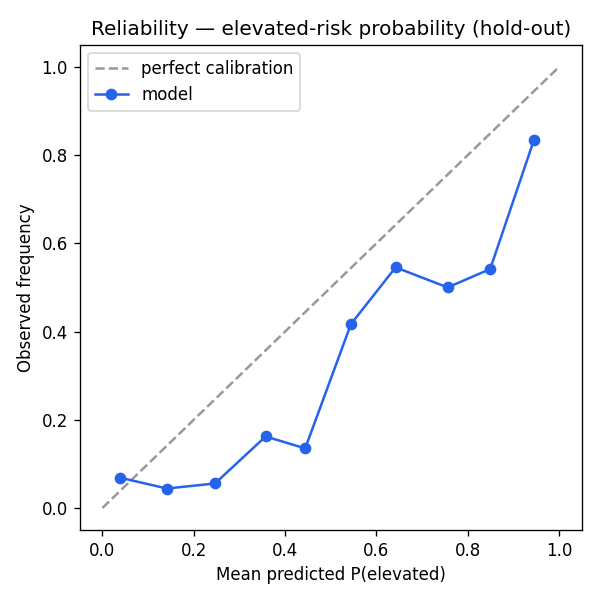
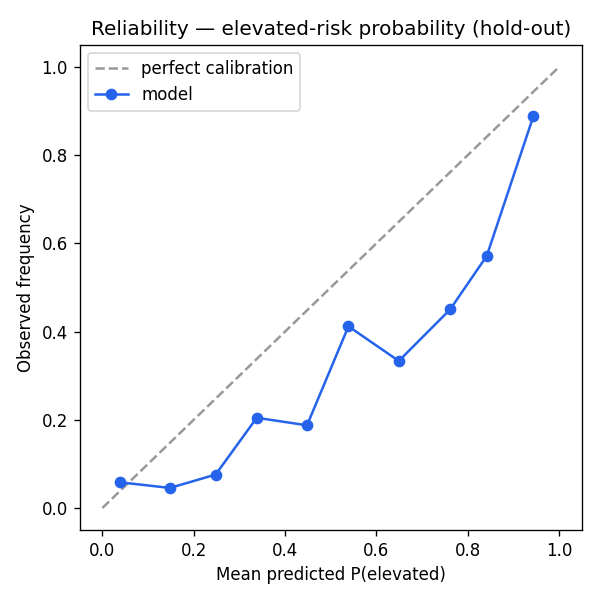
fix(ml): quant-review fixes — purged walk-forward, Brier, honest template wording
Adversarial quant review (1 medium + 4 low; persistence semantics and
cross-fold usage VERIFIED correct — minimal non-leaking lag, deployment-
realistic baseline):

- MEDIUM: folds and the calibration/hold-out fits lacked a purge/embargo —
  the last horizon=10 training rows carry labels computed from returns
  INSIDE the test window. Both validation.py and train.evaluate now drop
  those rows (purged walk-forward); majority baseline counts on the same
  embargoed window. Regenerated real report: model mean fold acc
  0.4923 → 0.4896 (the leak was flattering it), persistence unchanged at
  0.5230. Robust-fit fallback added: HistGBM's STRATIFIED early-stopping
  split raises on <2 members of a class in early embargoed windows →
  refit that window with early_stopping=False (logged, deterministic).
- Calibration payload/report gain the hold-out Brier score vs the
  base-rate reference (0.1042 vs 0.1133 — real, modest probabilistic
  skill) + an overlapping-window effective-n caveat.
- Honest template wording for the persistence criterion; per-fold
  persistence coverage + partial-coverage footnote; pooled→fold_means.
- Tests: +3 (embargo gap, log-loss masking, last-bin p=1.0), dead loop
  removed. Model card synced to embargoed numbers.

backend 632; black/ruff clean.

diff --git a/backend/app/ml/validation.py b/backend/app/ml/validation.py
@@ -32,7 +32,7 @@ from sklearn.pipeline import Pipeline
 from sklearn.preprocessing import StandardScaler
 
 from .config import TrainConfig
-from .train import _feature_importances, _make_model
+from .train import _feature_importances, _fit, _make_model
 
 _log = logging.getLogger(__name__)
 
@@ -106,13 +106,17 @@ def walk_forward_report(
     persist_all = persistence_predictions(y, horizon)
 
     folds: list[dict[str, Any]] = []
-    pooled: dict[str, list] = {"model": [], "majority": [], "persistence": [], "logistic": []}
+    fold_means: dict[str, list] = {"model": [], "majority": [], "persistence": [], "logistic": []}
     tscv = TimeSeriesSplit(n_splits=c.cv_splits)
     for i, (tr, te) in enumerate(tscv.split(X), start=1):
+        # PURGE/EMBARGO: the last `horizon` training rows carry labels computed
+        # from returns INSIDE the test window (y(t) spans (t, t+h]) — training
+        # on them leaks test-period information. Drop them from every fold.
+        tr = tr[:-horizon] if len(tr) > horizon else tr
         X_tr, y_tr = X.iloc[tr], y.iloc[tr]
         X_te, y_te = X.iloc[te], y.iloc[te]
 
-        model = _make_model(c).fit(X_tr, y_tr)
+        model = _fit(c, X_tr, y_tr)
         pred = model.predict(X_te)
         proba = model.predict_proba(X_te)
         loss, loss_skipped = _safe_log_loss(y_te, proba, list(model.classes_))
@@ -143,18 +147,19 @@ def walk_forward_report(
                 "log_loss_skipped_rows": loss_skipped,
                 "baseline_majority_acc": _acc(y_te, maj_pred),
                 "baseline_persistence_acc": persist_acc,
+                "persistence_rows": int(persist_mask.sum()),
                 "baseline_logistic_acc": _acc(y_te, logit_pred),
                 "baseline_logistic_log_loss": logit_loss,
             }
         )
-        pooled["model"].append(folds[-1]["accuracy"])
-        pooled["majority"].append(folds[-1]["baseline_majority_acc"])
+        fold_means["model"].append(folds[-1]["accuracy"])
+        fold_means["majority"].append(folds[-1]["baseline_majority_acc"])
         if persist_acc is not None:
-            pooled["persistence"].append(persist_acc)
-        pooled["logistic"].append(folds[-1]["baseline_logistic_acc"])
+            fold_means["persistence"].append(persist_acc)
+        fold_means["logistic"].append(folds[-1]["baseline_logistic_acc"])
 
     aggregate = {
-        name: round(float(np.mean(vals)), 4) if vals else None for name, vals in pooled.items()
+        name: round(float(np.mean(vals)), 4) if vals else None for name, vals in fold_means.items()
     }
 
     calibration = _holdout_calibration(X, y, c)
@@ -177,7 +182,10 @@ def _holdout_calibration(X: pd.DataFrame, y: pd.Series, c: TrainConfig) -> dict[
     hold-out: 10 uniform bins of predicted P(volatile∪stress) vs the observed
     frequency. This binary probability is what the product surfaces."""
     cut = int(len(X) * (1.0 - c.holdout_fraction))
-    model = _make_model(c).fit(X.iloc[:cut], y.iloc[:cut])
+    # Same embargo as the folds: the last `horizon` pre-cut labels overlap the
+    # hold-out window.
+    fit_end = max(1, cut - c.label_horizon)
+    model = _fit(c, X.iloc[:fit_end], y.iloc[:fit_end])
     proba = model.predict_proba(X.iloc[cut:])
     classes = list(model.classes_)
     idx = [i for i, cls in enumerate(classes) if cls in ELEVATED]
@@ -198,15 +206,34 @@ def _holdout_calibration(X: pd.DataFrame, y: pd.Series, c: TrainConfig) -> dict[
                 "observed_frequency": round(float(y_elev[mask].mean()), 4) if n else None,
             }
         )
+    base = float(y_elev.mean())
     return {
         "target": "P(elevated risk) = P(volatile) + P(stress)",
         "holdout_size": int(len(y_elev)),
-        "elevated_base_rate": round(float(y_elev.mean()), 4),
+        "elevated_base_rate": round(base, 4),
+        # Brier of the model vs always-predicting-the-base-rate (reference).
+        "brier": round(float(np.mean((p_elev - y_elev) ** 2)), 4),
+        "brier_base_rate": round(float(np.mean((base - y_elev) ** 2)), 4),
         "bins": rows,
     }
 
 
 # ── rendering ─────────────────────────────────────────────────────────
+
+
+def _persistence_coverage_note(report: dict[str, Any]) -> str:
+    partial = [
+        f"fold {f['fold']} ({f.get('persistence_rows', f['n_test'])}/{f['n_test']})"
+        for f in report["folds"]
+        if f.get("persistence_rows", f["n_test"]) < f["n_test"]
+    ]
+    if not partial:
+        return ""
+    return (
+        " NOTE: persistence covered only part of some test windows — "
+        + ", ".join(partial)
+        + " — so its aggregate is not row-for-row comparable."
+    )
 
 
 def _fmt(v: Any) -> str:
@@ -225,8 +252,10 @@ def render_markdown(report: dict[str, Any], *, png_rel_path: Optional[str] = Non
         f"- **Config:** seed {cfg['seed']} · {cfg['cv_splits']} expanding folds · "
         f"hold-out {cfg['holdout_fraction']:.0%} · model_version {cfg['model_version']}",
         "- **Discipline:** all boundaries chronological (`TimeSeriesSplit` + final "
-        "hold-out); no random eval splits; persistence baseline uses only labels "
-        "observable at prediction time (ŷ(t) = y(t−horizon)).",
+        "hold-out); a `horizon`-row PURGE/EMBARGO removes training labels whose "
+        "forward window overlaps the test period; no random eval splits; the "
+        "persistence baseline uses only labels observable at prediction time "
+        "(ŷ(t) = y(t−horizon)).",
         "",
         "## Walk-forward folds",
         "",
@@ -257,13 +286,15 @@ def render_markdown(report: dict[str, Any], *, png_rel_path: Optional[str] = Non
         "Log-loss rows marked — mean a fold's training window never saw some "
         "test class (the skipped-row counts are in the JSON payload); majority "
         "and persistence emit no probabilities, so log-loss applies only to the "
-        "model and the logistic baseline.",
+        "model and the logistic baseline." + _persistence_coverage_note(report),
         "",
         "## Calibration — elevated-risk probability (hold-out)",
         "",
         f"Target: {report['calibration']['target']} · hold-out "
         f"{report['calibration']['holdout_size']} rows · base rate "
-        f"{_fmt(report['calibration']['elevated_base_rate'])}",
+        f"{_fmt(report['calibration']['elevated_base_rate'])} · Brier "
+        f"{_fmt(report['calibration'].get('brier'))} (base-rate reference "
+        f"{_fmt(report['calibration'].get('brier_base_rate'))})",
         "",
         "| Predicted bin | n | Mean predicted | Observed frequency |",
         "|---|---|---|---|",
@@ -295,8 +326,13 @@ def render_markdown(report: dict[str, Any], *, png_rel_path: Optional[str] = Non
         "- 4-class accuracy near the majority baseline is expected; the "
         "product-relevant signal is the elevated-risk probability, whose "
         "calibration is tabled above.",
-        "- Persistence can be a STRONG baseline in calm stretches (regimes "
-        "persist); beating it in volatile folds is what matters.",
+        "- Persistence is a STRONG baseline (regimes persist) — judge the "
+        "model on the calibrated elevated-risk probability, not on beating "
+        "persistence at 4-class point calls.",
+        "- Calibration bins sit on OVERLAPPING 10-day forward windows: "
+        "adjacent rows share 9/10 return days, so the effective sample is "
+        "roughly n/horizon and sparse upper bins may reflect only a couple "
+        "of market episodes — read them as direction, not precision.",
         "",
     ]
     return "\n".join(lines)

diff --git a/backend/tests/test_ml_validation.py b/backend/tests/test_ml_validation.py
@@ -13,7 +13,6 @@ import numpy as np
 import pandas as pd
 import pytest
 
-from backend.app.ml import labels as ml_labels
 from backend.app.ml import train as ml_train
 from backend.app.ml.config import TrainConfig
 from backend.app.ml.validation import (
@@ -142,11 +141,60 @@ def test_markdown_render_contains_the_story(report):
     assert "## Calibration — elevated-risk probability" in md
     assert "## Permutation feature importance" in md
     assert "chronological" in md
-    # Labels vocabulary sanity — the report never invents class names.
-    for cls in ml_labels.CLASSES:
-        assert cls not in ("",)  # vocabulary exists; md may or may not list them
+    assert "PURGE/EMBARGO" in md
     # No unresolved format placeholders.
     assert "{" not in md.replace("{'", "")
+
+
+def test_folds_are_embargoed(report):
+    """The last `horizon` training labels overlap the test window — every
+    fold's effective train end must sit ≥ horizon business days before the
+    test start (purged walk-forward)."""
+    horizon = TrainConfig().label_horizon
+    for f in report["folds"]:
+        gap_days = len(pd.bdate_range(f["train_end"], f["test_start"])) - 2
+        assert gap_days >= horizon, f
+        assert f["persistence_rows"] == f["n_test"]  # full coverage on this frame
+
+
+def test_safe_log_loss_masks_unseen_classes():
+    from backend.app.ml.validation import _safe_log_loss
+
+    y_true = pd.Series(["a", "b", "zz", "a"])
+    proba = np.array([[0.9, 0.1], [0.2, 0.8], [0.5, 0.5], [0.7, 0.3]])
+    loss, skipped = _safe_log_loss(y_true, proba, ["a", "b"])
+    assert skipped == 1
+    assert loss is not None and loss > 0
+    # every row unseen → no loss, all skipped
+    loss2, skipped2 = _safe_log_loss(pd.Series(["zz", "zz"]), proba[:2], ["a", "b"])
+    assert loss2 is None and skipped2 == 2
+
+
+def test_calibration_last_bin_includes_probability_one(dataset, monkeypatch):
+    """A predicted probability of exactly 1.0 must land in the LAST bin, and
+    the bins must still cover the whole hold-out (the `<=` edge)."""
+    from backend.app.ml import validation as v
+
+    X, y = dataset
+
+    class _Stub:
+        classes_ = np.array(["neutral", "risk_on", "stress", "volatile"])
+
+        def fit(self, *a, **k):
+            return self
+
+        def predict_proba(self, X_):
+            n = len(X_)
+            proba = np.tile([0.25, 0.25, 0.25, 0.25], (n, 1))
+            proba[0] = [0.0, 0.0, 1.0, 0.0]  # elevated exactly 1.0
+            proba[1] = [0.5, 0.5, 0.0, 0.0]  # elevated exactly 0.0
+            return proba
+
+    monkeypatch.setattr(v, "_make_model", lambda c: _Stub())
+    cal = v._holdout_calibration(X, y, TrainConfig())
+    assert sum(b["n"] for b in cal["bins"]) == cal["holdout_size"]
+    assert cal["bins"][-1]["n"] >= 1  # the p=1.0 row is counted, not dropped
+    assert cal["brier"] is not None and cal["brier_base_rate"] is not None
 
 
 def test_markdown_render_with_png_link(report):

diff --git a/backend/app/ml/train.py b/backend/app/ml/train.py
@@ -72,6 +72,22 @@ def _make_model(cfg: Optional[TrainConfig] = None) -> HistGradientBoostingClassi
     )
 
 
+def _fit(c: TrainConfig, X: pd.DataFrame, y: pd.Series) -> HistGradientBoostingClassifier:
+    """Fit with a sparse-class fallback: HistGBM's early-stopping uses a
+    STRATIFIED internal split, which raises when any class has <2 members in
+    the window (a real possibility in early expanding folds after the
+    embargo). Refit that window without early stopping — logged, deterministic."""
+    try:
+        return _make_model(c).fit(X, y)
+    except ValueError as exc:
+        if "least populated" not in str(exc):
+            raise
+        _log.warning("ml.train.early_stopping_disabled_sparse_class rows=%s", len(X))
+        m = _make_model(c)
+        m.set_params(early_stopping=False)
+        return m.fit(X, y)
+
+
 def _git_sha() -> Optional[str]:
     """Provenance only — never fails a training run."""
     try:
@@ -106,19 +122,24 @@ def evaluate(X: pd.DataFrame, y: pd.Series, cfg: Optional[TrainConfig] = None) -
     # Walk-forward CV (time-ordered; never trains on the future).
     tscv = TimeSeriesSplit(n_splits=c.cv_splits)
     cv_f1, cv_acc = [], []
+    horizon = c.label_horizon
     for tr, te in tscv.split(X):
-        m = _make_model(c).fit(X.iloc[tr], y.iloc[tr])
+        # PURGE/EMBARGO: drop the last `horizon` training rows — their labels
+        # are computed from returns inside the test window (see validation.py).
+        tr = tr[:-horizon] if len(tr) > horizon else tr
+        m = _fit(c, X.iloc[tr], y.iloc[tr])
         pred = m.predict(X.iloc[te])
         cv_f1.append(float(f1_score(y.iloc[te], pred, average="macro", zero_division=0)))
         cv_acc.append(float((pred == y.iloc[te]).mean()))
 
-    # Final chronological hold-out (last holdout_fraction).
+    # Final chronological hold-out (last holdout_fraction), embargoed likewise.
     cut = int(len(X) * (1.0 - c.holdout_fraction))
-    m = _make_model(c).fit(X.iloc[:cut], y.iloc[:cut])
+    fit_end = max(1, cut - horizon)
+    m = _fit(c, X.iloc[:fit_end], y.iloc[:fit_end])
     pred = m.predict(X.iloc[cut:])
     proba = m.predict_proba(X.iloc[cut:])
     y_te = y.iloc[cut:]
-    majority = y.iloc[:cut].value_counts().idxmax()
+    majority = y.iloc[:fit_end].value_counts().idxmax()  # same window the model saw
     baseline_acc = float((y_te == majority).mean())
     report = classification_report(
         y_te, pred, output_dict=True, zero_division=0, labels=ml_labels.CLASSES

diff --git a/docs/ml/validation_report.md b/docs/ml/validation_report.md
@@ -4,23 +4,23 @@ _Auto-generated by `python -m backend.app.ml.validate` — do not edit by hand._
 
 - **Data window:** 2012-06-12 → 2026-06-22 (3526 labeled rows)
 - **Config:** seed 42 · 5 expanding folds · hold-out 20% · model_version regime-v1.1.0
-- **Discipline:** all boundaries chronological (`TimeSeriesSplit` + final hold-out); no random eval splits; persistence baseline uses only labels observable at prediction time (ŷ(t) = y(t−horizon)).
+- **Discipline:** all boundaries chronological (`TimeSeriesSplit` + final hold-out); a `horizon`-row PURGE/EMBARGO removes training labels whose forward window overlaps the test period; no random eval splits; the persistence baseline uses only labels observable at prediction time (ŷ(t) = y(t−horizon)).
 
 ## Walk-forward folds
 
 | Fold | Test window | n | Acc | Macro-F1 | Log-loss | Majority acc | Persistence acc | Logistic acc |
 |---|---|---|---|---|---|---|---|---|
-| 1 | 2014-10-17 → 2017-02-15 | 587 | 0.4651 | 0.2410 | 1.4953 | 0.5588 | 0.5077 | 0.4634 |
-| 2 | 2017-02-16 → 2019-06-18 | 587 | 0.6491 | 0.3286 | 0.9770 | 0.6934 | 0.6985 | 0.6627 |
-| 3 | 2019-06-19 → 2021-10-14 | 587 | 0.4514 | 0.3482 | 1.6584 | 0.4753 | 0.5043 | 0.3697 |
-| 4 | 2021-10-15 → 2024-02-15 | 587 | 0.3816 | 0.2899 | 1.8045 | 0.2743 | 0.4600 | 0.4310 |
-| 5 | 2024-02-16 → 2026-06-22 | 587 | 0.5145 | 0.3760 | 1.1208 | 0.4957 | 0.4446 | 0.5162 |
+| 1 | 2014-10-17 → 2017-02-15 | 587 | 0.4702 | 0.2397 | 1.5546 | 0.5588 | 0.5077 | 0.4668 |
+| 2 | 2017-02-16 → 2019-06-18 | 587 | 0.6627 | 0.3222 | 0.9529 | 0.6934 | 0.6985 | 0.6610 |
+| 3 | 2019-06-19 → 2021-10-14 | 587 | 0.4395 | 0.3859 | 1.6202 | 0.4753 | 0.5043 | 0.3629 |
+| 4 | 2021-10-15 → 2024-02-15 | 587 | 0.3697 | 0.2827 | 1.7842 | 0.2743 | 0.4600 | 0.4395 |
+| 5 | 2024-02-16 → 2026-06-22 | 587 | 0.5060 | 0.3643 | 1.1048 | 0.4957 | 0.4446 | 0.5128 |
 
 ## Model vs baselines (mean fold accuracy)
 
 | Candidate | Mean accuracy |
 |---|---|
-| **HistGBM (the model)** | **0.4923** |
+| **HistGBM (the model)** | **0.4896** |
 | Majority class | 0.4995 |
 | Persistence (y at t−horizon) | 0.5230 |
 | Logistic regression | 0.4886 |
@@ -29,20 +29,20 @@ Log-loss rows marked — mean a fold's training window never saw some test class
 
 ## Calibration — elevated-risk probability (hold-out)
 
-Target: P(elevated risk) = P(volatile) + P(stress) · hold-out 706 rows · base rate 0.1303
+Target: P(elevated risk) = P(volatile) + P(stress) · hold-out 706 rows · base rate 0.1303 · Brier 0.1042 (base-rate reference 0.1133)
 
 | Predicted bin | n | Mean predicted | Observed frequency |
 |---|---|---|---|
-| [0.0, 0.1) | 378 | 0.0384 | 0.0688 |
-| [0.1, 0.2) | 113 | 0.1412 | 0.0442 |
-| [0.2, 0.3) | 54 | 0.2465 | 0.0556 |
-| [0.3, 0.4) | 37 | 0.3574 | 0.1622 |
-| [0.4, 0.5) | 37 | 0.4440 | 0.1351 |
-| [0.5, 0.6) | 24 | 0.5441 | 0.4167 |
-| [0.6, 0.7) | 11 | 0.6419 | 0.5455 |
-| [0.7, 0.8) | 16 | 0.7559 | 0.5000 |
-| [0.8, 0.9) | 24 | 0.8490 | 0.5417 |
-| [0.9, 1.0] | 12 | 0.9445 | 0.8333 |
+| [0.0, 0.1) | 361 | 0.0393 | 0.0582 |
+| [0.1, 0.2) | 110 | 0.1480 | 0.0455 |
+| [0.2, 0.3) | 66 | 0.2479 | 0.0758 |
+| [0.3, 0.4) | 44 | 0.3380 | 0.2045 |
+| [0.4, 0.5) | 32 | 0.4480 | 0.1875 |
+| [0.5, 0.6) | 34 | 0.5387 | 0.4118 |
+| [0.6, 0.7) | 9 | 0.6489 | 0.3333 |
+| [0.7, 0.8) | 20 | 0.7612 | 0.4500 |
+| [0.8, 0.9) | 21 | 0.8415 | 0.5714 |
+| [0.9, 1.0] | 9 | 0.9438 | 0.8889 |
 
 ![Reliability diagram](assets/reliability_elevated_risk.png)
 
@@ -70,4 +70,5 @@ Target: P(elevated risk) = P(volatile) + P(stress) · hold-out 706 rows · base 
 
 - The estimator's internal `early_stopping` split is seeded but shuffled within each fit (see the model card's limitations).
 - 4-class accuracy near the majority baseline is expected; the product-relevant signal is the elevated-risk probability, whose calibration is tabled above.
-- Persistence can be a STRONG baseline in calm stretches (regimes persist); beating it in volatile folds is what matters.
+- Persistence is a STRONG baseline (regimes persist) — judge the model on the calibrated elevated-risk probability, not on beating persistence at 4-class point calls.
+- Calibration bins sit on OVERLAPPING 10-day forward windows: adjacent rows share 9/10 return days, so the effective sample is roughly n/horizon and sparse upper bins may reflect only a couple of market episodes — read them as direction, not precision.

diff --git a/docs/ml/risk_today_model_card.md b/docs/ml/risk_today_model_card.md
@@ -126,15 +126,18 @@ but that internal split is random-order by estimator design.
 - The estimator's internal early-stopping split shuffles within each fit
   (seeded; reported eval boundaries stay chronological) — with
   autocorrelated vol labels this can mildly flatter iteration selection.
-- **Walk-forward validation** (`docs/ml/validation_report.md`, Phase 2):
-  the persistence baseline (carry the last observable label) BEATS the model
-  on mean 4-class fold accuracy (0.523 vs 0.492) — regimes persist; the
-  model's value is the elevated-risk probability, not 4-class point calls.
-- **Calibration**: the elevated-risk probability is directionally sound
-  (higher bins → higher observed frequency; top bin 0.94 predicted / 0.83
-  observed) but OVER-FORECASTS in the mid bins (e.g. ~0.14 predicted vs
-  0.04 observed) — treat mid-range probabilities as a watch signal, not a
-  base rate. Reliability table + diagram in the validation report.
+- **Walk-forward validation** (`docs/ml/validation_report.md`, Phase 2,
+  purged/embargoed folds): the persistence baseline (carry the last
+  observable label) BEATS the model on mean 4-class fold accuracy
+  (0.523 vs 0.490) — regimes persist; the model's value is the
+  elevated-risk probability, not 4-class point calls.
+- **Calibration** (hold-out, embargoed fit): higher predicted bins do see
+  higher observed frequency, but the probability OVER-FORECASTS in the mid
+  bins — treat mid-range probabilities as a watch signal, not a base rate.
+  Caveat on precision: bins sit on OVERLAPPING 10-day windows (effective
+  sample ≈ n/10), so sparse upper bins may reflect only a couple of market
+  episodes. Brier score vs the base-rate reference is in the validation
+  report, alongside the reliability table + diagram.
 
 ## Ethics & user-facing framing
 
